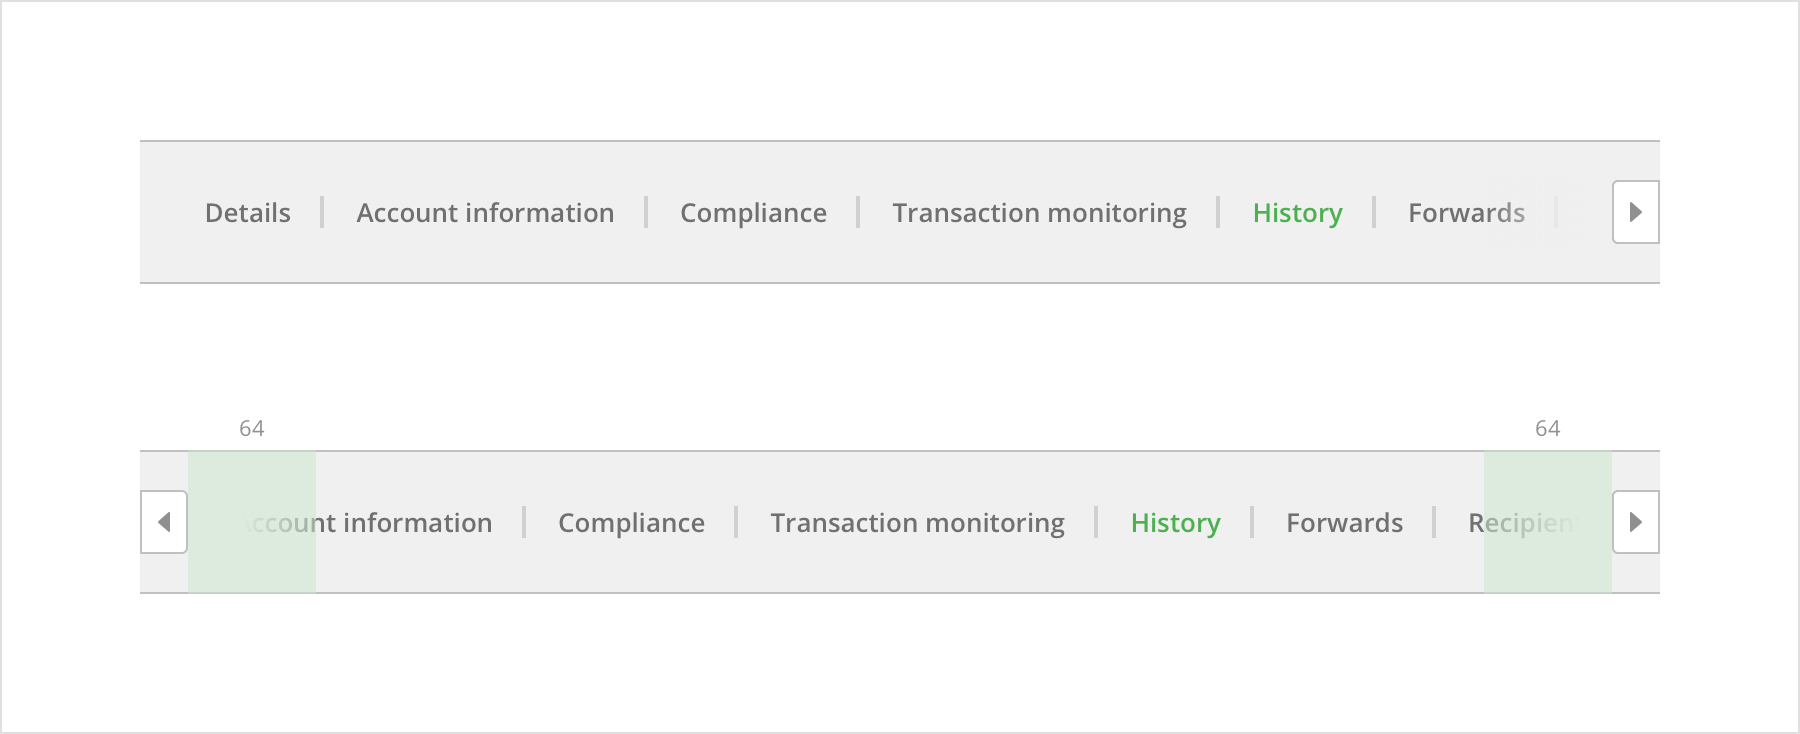
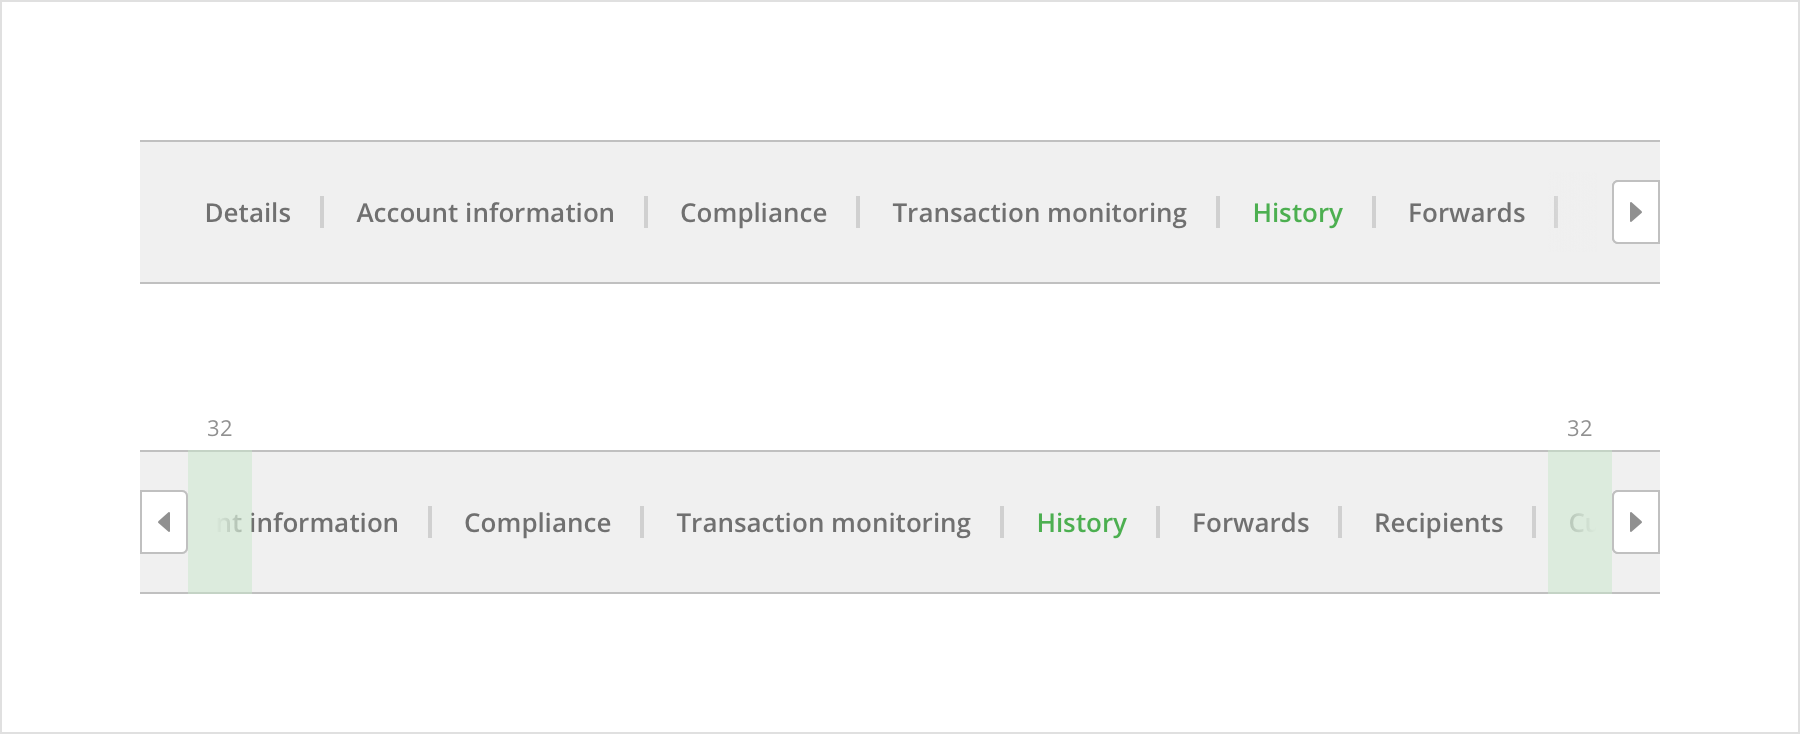
Updates tab-navigations.md
Auto commit by GitBook Editor

Changed region(s): [[0.1244, 0.6894, 0.8711, 0.7493], [0.84, 0.5695, 0.9022, 0.5995], [0.1244, 0.5695, 0.1556, 0.5995]]

diff --git a/tab-navigations.md b/tab-navigations.md
@@ -12,6 +12,7 @@ The primary tab navigation contains the pages that are built-in the system, for 
 
 * Only first letter of the tab label should be capitalized.
 * When number of tab items exceed the width of the content wrapper use [Nav arrows](/atoms/nav-arrows.md).
+* Primary tab items should always link to the new page.
 
 #### Spacing guidelines {#spacing-guidelines}
 
@@ -34,7 +35,7 @@ border-bottom: 1px solid $S500;
 ##### Nav arrows
 
 * [Nav arrows](/atoms/nav-arrows.md) should be visible only in cases when there are more items on the left or the right side, or both.
-* When [Nav arrows](/atoms/nav-arrows.md) are visible there is a gradient mask of 64px in width next to them.
+* When [Nav arrows](/atoms/nav-arrows.md) are visible there is a gradient mask of 32px in width next to them.
 
 ![](/assets/organisms/tab-navigations-primary-nav-arrows.png)
 
@@ -43,14 +44,14 @@ border-bottom: 1px solid $S500;
 float: left;
 
 /* Gradient mask / left */
-width: 64px;
+width: 32px;
 background-image: linear-gradient(90deg, $S100 0%, $S200 75%);
 
 /* Nav arrow / left */
 float: right;
 
 /* Gradient mask / right */
-width: 64px;
+width: 32px;
 background-image: linear-gradient(-90deg, $S100 0%, $S200 75%);
 ```
 
@@ -81,6 +82,16 @@ color: $G300;
 ```
 
 ---
+
+# Secondary
+
+The secondary tab navigation is data-driven, therefore the admin or users need to make an action that will create the tab items \(example: currency list in 'Trading Time'\).
+
+#### General guidelines {#spacing-guidelines}
+
+* Only first letter of the tab label should be capitalized.
+* When number of tab items exceed the width of the content wrapper use [Nav arrows](/atoms/nav-arrows.md).
+* When switching between secondary tab items only the data below should be changed, no new page should be opened.
 
 
 
